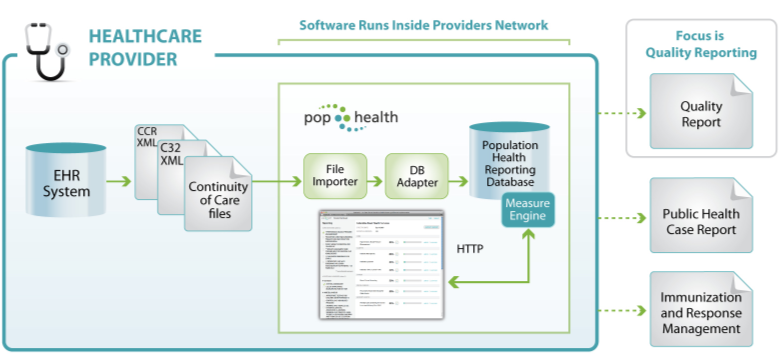
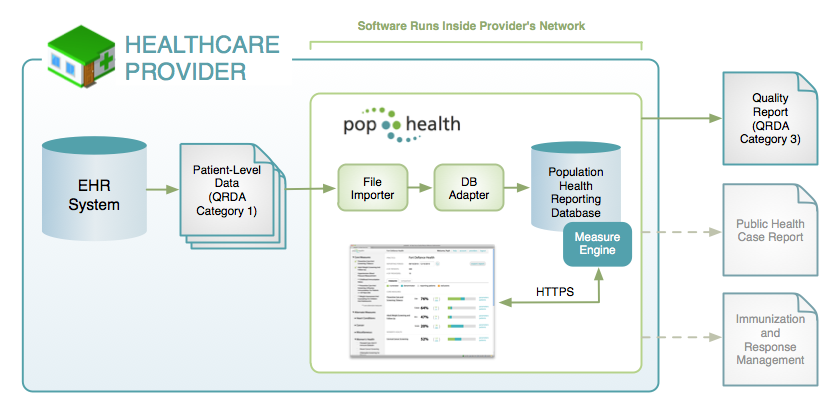
Updated the pophealth concept of operations illustration in the FAQ to align with MU Stage 2

diff --git a/faq.html b/faq.html
@@ -257,7 +257,7 @@
         Content of this site is sponsored by the <a href="http://www.hhs.gov/healthit/">Office of the National Coordinator for Health Information Technology (ONC)</a> &nbsp;
         <a href="http://www.hhs.gov/Privacy.html">Privacy Policy</a> &nbsp;
         <a href="http://www.hhs.gov/Disclaimer.html">Disclaimer</a> &nbsp;
-        <br/>Page Last Revised: May 22, 2013
+        <br/>Page Last Revised: June 4, 2013
       </div>
     </footer>
     <script type="text/javascript">
